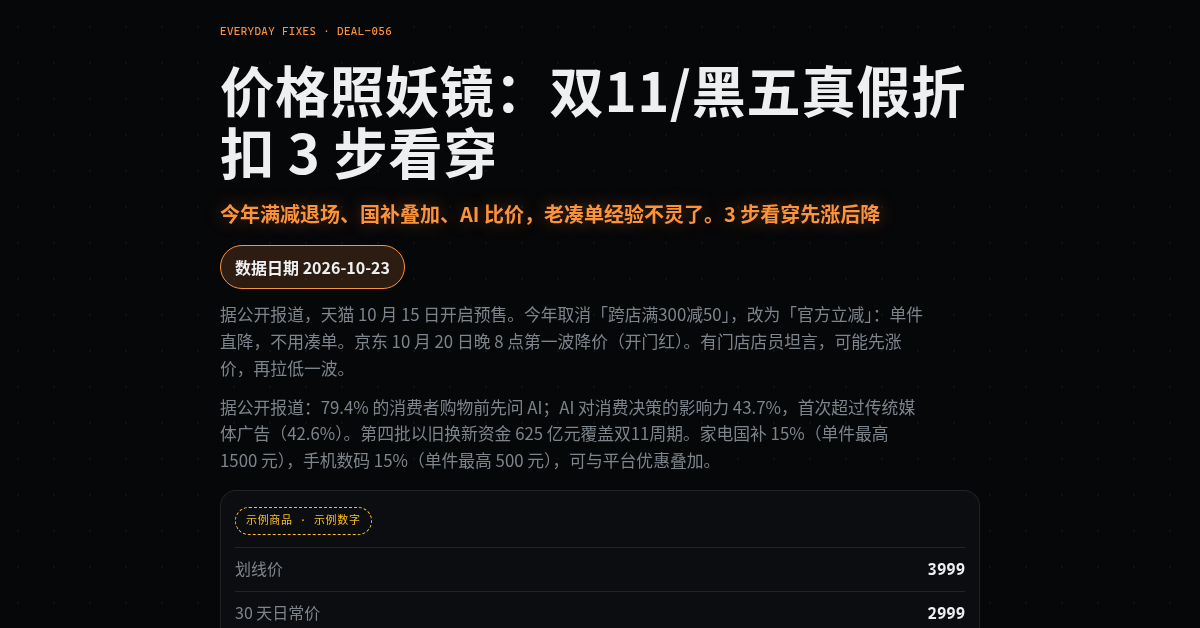
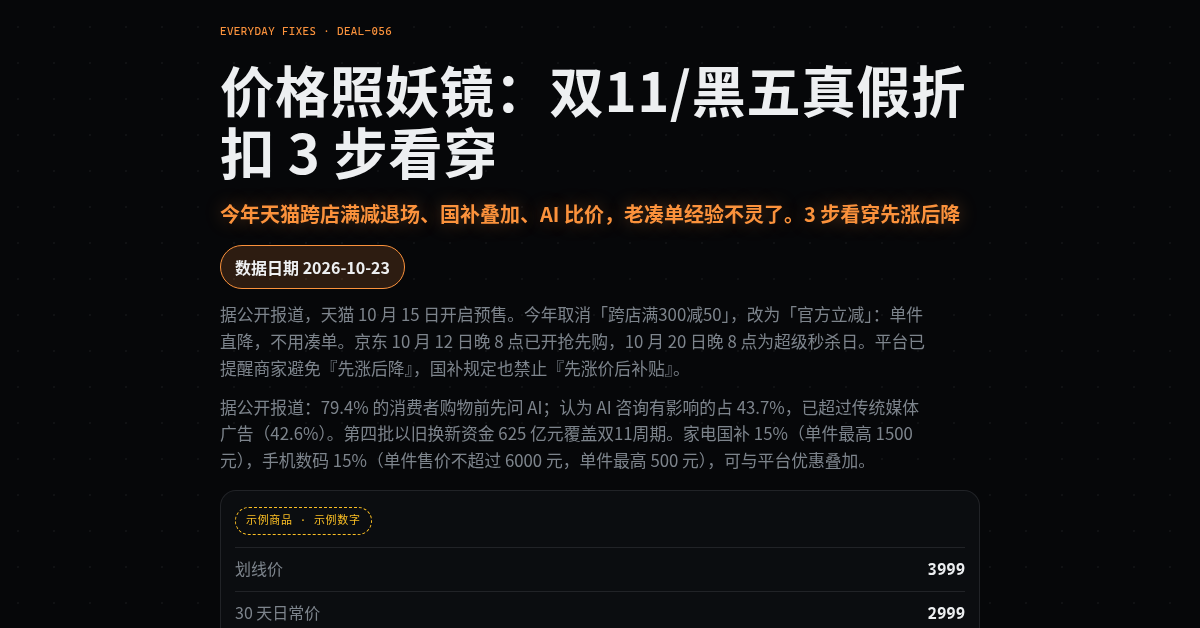
056: copy fixes (Tmall cross-store, JD dates, AI 43.7%, subsidy refund rule, 6000 cap, chip source, raise-then-cut rule, 3.3%) + OG

Changed region(s): [[0.185, 0.6354, 0.7708, 0.7564], [0.2158, 0.3025, 0.8017, 0.3631], [0.185, 0.5143, 0.7708, 0.6051]]

diff --git a/056/index.html b/056/index.html
@@ -428,16 +428,16 @@
   <header class="hero">
     <p class="mono eyebrow" data-en="Everyday Fixes · DEAL-056">Everyday Fixes · DEAL-056</p>
     <h1 data-en="Price X-ray: spot fake Double 11 &amp; Black Friday discounts in 3 steps">价格照妖镜：双11/黑五真假折扣 3 步看穿</h1>
-    <p class="hook" data-en="Raised tags, stacked cuts, and AI price checks broke the old bundle math. Three steps to see a raise-then-cut.">今年满减退场、国补叠加、AI 比价，老凑单经验不灵了。3 步看穿先涨后降</p>
+    <p class="hook" data-en="This year Tmall cross-store discounts are gone, subsidies stack, and AI checks prices, so the old bundle math broke. Three steps to see a raise-then-cut.">今年天猫跨店满减退场、国补叠加、AI 比价，老凑单经验不灵了。3 步看穿先涨后降</p>
     <p class="date-badge" data-en="Data as of 2026-10-23">数据日期 2026-10-23</p>
-    <p class="lede" data-en="Black Friday still runs on a raised tag and a loud percent off. What matters is the price you pay versus the price you saw in the last 30 days. Old bundle-to-a-threshold math fails when the cut is per item.">据公开报道，天猫 10 月 15 日开启预售。今年取消「跨店满300减50」，改为「官方立减」：单件直降，不用凑单。京东 10 月 20 日晚 8 点第一波降价（开门红）。有门店店员坦言，可能先涨价，再拉低一波。</p>
-    <p class="fact" data-en="According to public reports, 79.4% of shoppers ask an AI before they buy. AI's influence on purchase decisions is 43.7%, ahead of traditional media ads (42.6%) for the first time. If you estimate a percent-off subsidy on the original price, you overstate the savings.">据公开报道：79.4% 的消费者购物前先问 AI；AI 对消费决策的影响力 43.7%，首次超过传统媒体广告（42.6%）。第四批以旧换新资金 625 亿元覆盖双11周期。家电国补 15%（单件最高 1500 元），手机数码 15%（单件最高 500 元），可与平台优惠叠加。</p>
+    <p class="lede" data-en="Black Friday still runs on a raised tag and a loud percent off. What matters is the price you pay versus the price you saw in the last 30 days. Old bundle-to-a-threshold math fails when the cut is per item. According to public reports, JD opened early-bird sales at 8 pm on Oct 12, and 8 pm on Oct 20 was its super flash-sale day. Platforms have told merchants to avoid raise-then-cut pricing, and subsidy rules ban raising a price before a subsidy.">据公开报道，天猫 10 月 15 日开启预售。今年取消「跨店满300减50」，改为「官方立减」：单件直降，不用凑单。京东 10 月 12 日晚 8 点已开抢先购，10 月 20 日晚 8 点为超级秒杀日。平台已提醒商家避免『先涨后降』，国补规定也禁止『先涨价后补贴』。</p>
+    <p class="fact" data-en="According to public reports, 79.4% of shoppers ask an AI before they buy. 43.7% say AI advice influenced their purchase, ahead of traditional media ads (42.6%). If you estimate a percent-off subsidy on the original price, you overstate the savings.">据公开报道：79.4% 的消费者购物前先问 AI；认为 AI 咨询有影响的占 43.7%，已超过传统媒体广告（42.6%）。第四批以旧换新资金 625 亿元覆盖双11周期。家电国补 15%（单件最高 1500 元），手机数码 15%（单件售价不超过 6000 元，单件最高 500 元），可与平台优惠叠加。</p>
     <aside class="case">
       <p class="badge" data-en="Sample product · sample figures">示例商品 · 示例数字</p>
       <div class="case-row"><span data-en="Strikethrough price">划线价</span><b data-en="3999">3999</b></div>
       <div class="case-row"><span data-en="Usual price over 30 days">30 天日常价</span><b data-en="2999">2999</b></div>
       <div class="case-row"><span data-en="Price you pay">到手价</span><b data-en="2899">2899</b></div>
-      <p class="case-note" data-en="Real drop about 3% versus the usual price. The tag looks much more generous. Sample figures, not a live price.">真实降幅约 3%（相对日常价）。划线价看起来降得多。示例数字，不是真实平台价格。</p>
+      <p class="case-note" data-en="Real drop about 3.3% versus the usual price. The tag looks much more generous. Sample figures, not a live price.">真实降幅约 3.3%（相对日常价）。划线价看起来降得多。示例数字，不是真实平台价格。</p>
     </aside>
     <nav class="toc" id="tocNav" aria-label="On this page">
       <a href="#step1"><span class="n" data-en="01">01</span><span data-en="Spot the real drop">真假折扣</span></a>
@@ -457,7 +457,7 @@
       <p class="field-hint" data-en="Real drop = (usual price − price you pay) / usual price. 15% or more: real deal. From 5% up to 15%: wait. Under 5%, including a price you pay that is not below the usual price: inflated tag. Tag inflation versus the usual price: under 10% no clear suspicion, from 10% up to 30% medium, 30% or more high. Rules of thumb, not hard rules.">真实降幅 =（日常价 − 到手价）/ 日常价。15% 及以上为真香，5% 起、不到 15% 为再等等，低于 5%（含到手价不低于日常价）为套路价。划线价相对日常价的虚高：低于 10% 无明显嫌疑，10% 起、不到 30% 为中等，30% 及以上为高。经验口径，非硬规则。</p>
     </div>
     <p class="badge" data-en="Sample product · sample figures">示例商品 · 示例数字</p>
-    <p class="field-hint" data-en="Defaults are a sample product and sample figures, not a live platform price. Replace them with your three prices. A shop floor can raise a tag, then cut it. Use the price you saw over 30 days, not the crossed-out number.">默认是示例商品的示例数字，不是真实平台价格。换成你自己的三个价。有门店店员坦言，可能先涨价，再拉低一波。基准用 30 天里见过的日常价，不用划线价。</p>
+    <p class="field-hint" data-en="Defaults are a sample product and sample figures, not a live platform price. Replace them with your three prices. Platforms have told merchants to avoid raise-then-cut pricing, and subsidy rules ban raising a price before a subsidy. Use the price you saw over 30 days, not the crossed-out number.">默认是示例商品的示例数字，不是真实平台价格。换成你自己的三个价。平台已提醒商家避免『先涨后降』，国补规定也禁止『先涨价后补贴』。基准用 30 天里见过的日常价，不用划线价。</p>
     <div class="cols cols-3">
       <label class="lab" for="listPrice"><span data-en="Strikethrough price (yuan)">划线价（元）</span><input id="listPrice" type="text" inputmode="decimal" autocomplete="off" spellcheck="false" value="3999"></label>
       <label class="lab" for="usualPrice"><span data-en="Usual price over 30 days, or a low you saw (yuan)">30 天日常价 / 历史低价（元）</span><input id="usualPrice" type="text" inputmode="decimal" autocomplete="off" spellcheck="false" value="2999"></label>
@@ -470,7 +470,7 @@
     <div class="field-head">
       <span class="field-no" data-en="02">02</span>
       <h2 class="field-title" data-en="Step 2 · Stacking order">第 2 步 · 叠加顺序检查</h2>
-      <p class="field-hint" data-en="According to public reports, the order is: direct cut, then store and category coupons, then PLUS 5% off, then a super red packet, then trade-in, then a 15% subsidy. The subsidy is calculated on what you still pay after those earlier cuts. Appliances: 15%, up to 1500 yuan per item. Phones and digital: 15%, up to 500 yuan per item. Reported order. The live checkout wins.">据公开报道，叠加顺序是：商品直降 → 店铺券/品类券 → PLUS 95 折 → 超级红包 → 以旧换新 → 国补 15%。国补按前面全部抵扣后的实付金额核算。家电国补 15%（单件最高 1500 元），手机数码 15%（单件最高 500 元）。第四批以旧换新资金 625 亿元覆盖双11周期，可与平台优惠叠加。顺序据公开报道，以平台实际结算为准。</p>
+      <p class="field-hint" data-en="According to public reports, the order is: direct cut, then store and category coupons, then PLUS 5% off, then a super red packet, then trade-in, then a 15% subsidy. The subsidy is calculated on what you still pay after those earlier cuts. Appliances: 15%, up to 1500 yuan per item. Phones and digital: 15% (items priced up to 6000 yuan), up to 500 yuan per item. Reported order. The live checkout wins.">据公开报道，叠加顺序是：商品直降 → 店铺券/品类券 → PLUS 95 折 → 超级红包 → 以旧换新 → 国补 15%。国补按前面全部抵扣后的实付金额核算。家电国补 15%（单件最高 1500 元），手机数码 15%（单件售价不超过 6000 元，单件最高 500 元）。第四批以旧换新资金 625 亿元覆盖双11周期，可与平台优惠叠加。顺序据公开报道，以平台实际结算为准。</p>
     </div>
     <p class="badge" data-en="Sample figures, not a live price">示例数字，不是真实价格</p>
     <ol class="order">
@@ -508,7 +508,7 @@
     <div class="field-head">
       <span class="field-no" data-en="03">03</span>
       <h2 class="field-title" data-en="Step 3 · When to buy">第 3 步 · 下单时机</h2>
-      <p class="field-hint" data-en="Today, 23 Oct 2026, is the compare-and-wait window. Rhythm: Oct 20 opening wave (past), then Oct 31–Nov 3 second wave, Nov 4–9 category rotation, Nov 11 finale, Nov 12–13 encore, Nov 27 Black Friday. Pick a category.">今天 10 月 23 日，处在加购比价期。据公开报道，节奏是：10-20 开门红（已过）→ 10-31–11-03 第二波 → 11-04–11-09 品类轮动 → 11-11 终极 → 11-12–11-13 返场 → 11-27 黑五。天猫 10 月 15 日已开预售。京东 10 月 20 日晚 8 点的第一波已经过去。按品类看现在该不该等。</p>
+      <p class="field-hint" data-en="Today, 23 Oct 2026, is the compare-and-wait window. Rhythm: Oct 20 official sale start (past), then Oct 31–Nov 3 second wave, Nov 4–9 category rotation, Nov 11 finale, Nov 12–13 encore, Nov 27 Black Friday. Tmall opened presales on Oct 15. JD's 8 pm Oct 20 super flash-sale day has passed. Pick a category.">今天 10 月 23 日，处在加购比价期。据公开报道，节奏是：10-20 正式开卖（已过）→ 10-31–11-03 第二波 → 11-04–11-09 品类轮动 → 11-11 终极 → 11-12–11-13 返场 → 11-27 黑五。天猫 10 月 15 日已开预售。京东 10 月 20 日晚 8 点的超级秒杀日已经过去。按品类看现在该不该等。</p>
     </div>
     <div class="timeline dyn" id="timeline"></div>
     <div class="presets" id="catBtns">
@@ -518,7 +518,7 @@
     </div>
     <div id="advicePhone">
       <p class="comment dyn" id="advicePhoneLine"></p>
-      <p class="why-line" data-en="According to public reports, memory-chip contract prices are up more than 200%. Reports say phones may rise by 300 yuan or more in late November or early December, and 512G / 1TB by 500 yuan or more. There is a bounce-back risk after Double 11.">据公开报道，存储芯片合约均价涨超 200%。消息称，手机 11 月底或 12 月初涨价 300 元起，512G / 1TB 涨 500 元起。双11后有反弹风险。</p>
+      <p class="why-line" data-en="According to public reports, phone memory-chip contract prices at the end of H1 2026 were up more than 200% versus the end of 2025 (Counterpoint). Reports say phones may rise by 300 yuan or more in late November or early December, and 512G / 1TB by 500 yuan or more. There is a bounce-back risk after Double 11.">据公开报道，2026 年上半年末较 2025 年末，手机存储芯片合约均价涨超 200%（Counterpoint）。消息称，手机 11 月底或 12 月初涨价 300 元起，512G / 1TB 涨 500 元起。双11后有反弹风险。</p>
     </div>
     <div id="adviceAppliance" hidden>
       <p class="comment dyn" id="adviceApplianceLine"></p>
@@ -582,7 +582,7 @@
       <h2 class="field-title" data-en="Notes">注记</h2>
     </div>
     <p class="date-badge" data-en="Data as of 2026-10-23">数据日期 2026-10-23</p>
-    <p class="note-copy" data-en="News figures are from public reports. 79.4% of shoppers ask an AI before they buy. AI's influence on purchase decisions is 43.7%, ahead of traditional media ads at 42.6%. A fourth trade-in fund covers the Double 11 period. Appliance subsidy: 15%, up to 1500 yuan per item. Phones and digital: 15%, up to 500 yuan per item. Memory-chip contract prices are up more than 200%. Reports say phones may rise by 300 yuan or more in late November or early December, and 512G / 1TB by 500 yuan or more.">新闻数字据公开报道：79.4% 的消费者购物前先问 AI；AI 对消费决策影响力 43.7%，传统媒体广告 42.6%；第四批以旧换新资金 625 亿元覆盖双11周期；家电国补 15%（单件最高 1500 元）；手机数码 15%（单件最高 500 元）；存储芯片合约均价涨超 200%。消息称，手机 11 月底或 12 月初涨价 300 元起，512G / 1TB 涨 500 元起。</p>
+    <p class="note-copy" data-en="News figures are from public reports. 79.4% of shoppers ask an AI before they buy. 43.7% say AI advice influenced their purchase; traditional media ads, 42.6%. A fourth trade-in fund covers the Double 11 period. Appliance subsidy: 15%, up to 1500 yuan per item. Phones and digital: 15% (items priced up to 6000 yuan), up to 500 yuan per item. Phone memory-chip contract prices at the end of H1 2026 were up more than 200% versus the end of 2025 (Counterpoint). Reports say phones may rise by 300 yuan or more in late November or early December, and 512G / 1TB by 500 yuan or more.">新闻数字据公开报道：79.4% 的消费者购物前先问 AI；认为 AI 咨询有影响的占 43.7%，传统媒体广告 42.6%；第四批以旧换新资金 625 亿元覆盖双11周期；家电国补 15%（单件最高 1500 元）；手机数码 15%（单件售价不超过 6000 元，单件最高 500 元）；2026 年上半年末较 2025 年末，手机存储芯片合约均价涨超 200%（Counterpoint）。消息称，手机 11 月底或 12 月初涨价 300 元起，512G / 1TB 涨 500 元起。</p>
     <p class="note-copy" data-en="Figures such as 3999 / 2999 / 2899, and the numbers prefilled in the stack, are sample figures. They are not a live price on any platform.">页面里的 3999 / 2999 / 2899，以及叠加器里预填的数字，都是示例数字，不是任何商品的真实平台价格。</p>
     <p class="note-copy" data-en="Real deal, wait, and inflated tag use rules of thumb, not hard rules.">真香、再等等、套路价的分界是经验口径，非硬规则。</p>
     <p class="disclaimer" data-en="Live platform pages win. This is not shopping advice.">价格规则以各平台实时页面为准，不构成消费建议。</p>

diff --git a/056/engine.js b/056/engine.js
@@ -85,7 +85,7 @@
   };
 
   var TIMELINE_SRC = [
-    { id: "open", date: "10-20", label: { zh: "开门红", en: "Opening wave" } },
+    { id: "open", date: "10-20", label: { zh: "正式开卖", en: "Official sale start" } },
     { id: "wave2", date: "10-31–11-03", label: { zh: "第二波", en: "Second wave" } },
     { id: "rotate", date: "11-04–11-09", label: { zh: "品类轮动", en: "Category rotation" } },
     { id: "final", date: "11-11", label: { zh: "终极", en: "Finale" } },
@@ -101,8 +101,8 @@
     },
     {
       id: "refund",
-      zh: "国补全额退款会消耗当年名额。",
-      en: "A full refund on a subsidized order can use up this year's subsidy slot."
+      zh: "按规定，退货后已核销的国补资格应恢复；以当地和平台实际处理为准。",
+      en: "Under the rules, a used subsidy entitlement should be restored after a return. Local and platform handling decides."
     },
     {
       id: "deposit",
@@ -152,8 +152,8 @@
       ],
       answer: 1,
       explain: {
-        zh: "据公开报道，存储芯片合约均价涨超 200%。消息称，手机 11 月底或 12 月初涨价 300 元起，512G 与 1TB 涨 500 元起。双11后有反弹风险。",
-        en: "According to public reports, memory-chip contract prices are up more than 200%. Reports say phones may rise by 300 yuan or more in late November or early December, and 512G / 1TB by 500 yuan or more. There is a bounce-back risk after Double 11."
+        zh: "据公开报道，2026 年上半年末较 2025 年末，手机存储芯片合约均价涨超 200%（Counterpoint）。消息称，手机 11 月底或 12 月初涨价 300 元起，512G 与 1TB 涨 500 元起。双11后有反弹风险。",
+        en: "According to public reports, phone memory-chip contract prices at the end of H1 2026 were up more than 200% versus the end of 2025 (Counterpoint). Reports say phones may rise by 300 yuan or more in late November or early December, and 512G / 1TB by 500 yuan or more. There is a bounce-back risk after Double 11."
       }
     },
     {

diff --git a/056/engine.test.js b/056/engine.test.js
@@ -308,7 +308,7 @@ test("CHECKLIST has 5 items and QUIZ has 3 with in-range answers and bilingual e
     assert.ok(item.en.trim());
   });
   assert.ok(E.CHECKLIST.some(function (item) { return /价保/.test(item.zh); }));
-  assert.ok(E.CHECKLIST.some(function (item) { return /名额/.test(item.zh); }));
+  assert.ok(E.CHECKLIST.some(function (item) { return /国补资格应恢复/.test(item.zh); }));
   assert.ok(E.CHECKLIST.some(function (item) { return /定金/.test(item.zh); }));
   assert.ok(E.CHECKLIST.some(function (item) { return /三家/.test(item.zh); }));
   assert.ok(E.CHECKLIST.some(function (item) { return /标识/.test(item.zh) && /地址/.test(item.zh); }));
